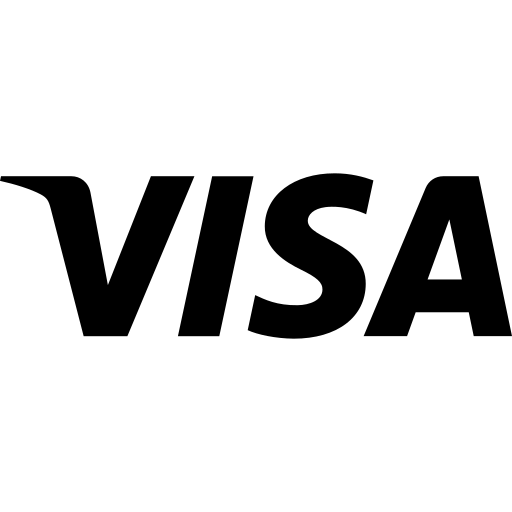
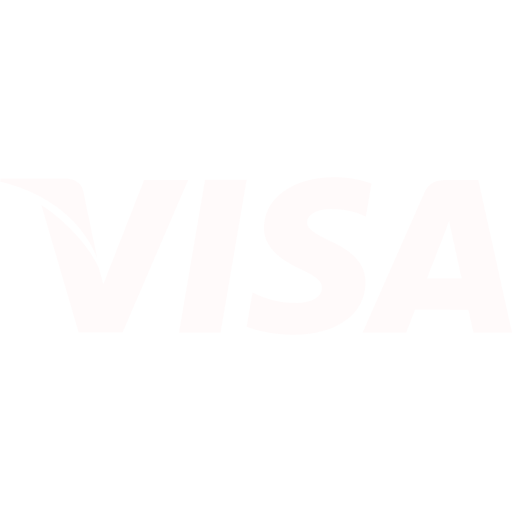
submission

Changed region(s): [[0.0, 0.3125, 1.0, 0.6875]]

diff --git a/src/Components/Card.jsx b/src/Components/Card.jsx
@@ -25,22 +25,22 @@ const {data}=useContext(AppContext)
          <Box borderRadius='10' background='tomato'  h='250px' w='100%' position='absolute' left='0.5' top='10'  >
            <div >
 
-         <img width='50px' style={{"marginLeft":'320px', "color":"white"}}  src={logo}  alt='logo' />
+         <img width='50px' style={{"marginLeft":'320px', "color":"whitesmoke"}}  src={logo}  alt='logo' />
          <img width='40px' style={{"marginLeft":"20px"}} src={sim} alt='chip'/>
            </div>
            {data.cardnumber ? <h2 style={{"margin":"20px", 'color':"white", "fontSize":"30px" }}  >{data.cardnumber}</h2> : <h3 style={{"fontSize":"30px" ,"margin":"20px", 'color':"white"}} >9876 9877 7673 2310</h3> }
        
            <div style={{"display":"flex", "color":"white", "gap": "5%"}}>
-             <div style={{"marginLeft":"5%"}}>
-               <p>CardHolder</p>
-              {data.cname ? <p>{data.cname}</p> : <p>Paru</p>}
+             <div style={{"marginLeft":"5%","flex":"1"}} >
+               <p><b>CARDHOLDER</b></p>
+              {data.cname ? <p>{data.cname}</p> : <p>MasaiSchool</p>}
              </div>
-             <div>
-               <p>Expires</p>
-              {data.emonth && data.eyear? <p>{data.emonth}{data.eyear}</p> : <p>08/20</p> } 
+             <div style={{"flex":"1"}}>
+               <p><b>EXPIRES</b></p>
+              {data.emonth && data.eyear? <p>{data.emonth}/{data.eyear}</p> : <p>08/25</p> } 
              </div>
-             <div>
-               <p>CVC</p>
+             <div style={{"flex":"1"}}>
+               <p><b>CVC</b></p>
              {data.cvc?   <p>{data.cvc}</p> : <p>435</p>}
              </div>
            </div>

diff --git a/src/Components/Form.jsx b/src/Components/Form.jsx
@@ -180,7 +180,7 @@ const Form = () => {
           </FormControl>
         </GridItem>
       </SimpleGrid>
-      <div style={{ display: "flex" }}>
+      <div style={{ display: "flex" , "fontWeight":"bolder" }}>
         <p> Amount:</p>
         <Input
           name="amount"
@@ -190,6 +190,7 @@ const Form = () => {
           type="text"
           color='blackAlpha.100'
           onChange={handelChange}
+          placeholder='payment'
         ></Input>
       </div>
       <Button  onClick={handelsubmit}  colorScheme="tomato" background="tomato" p="20px 60px">
